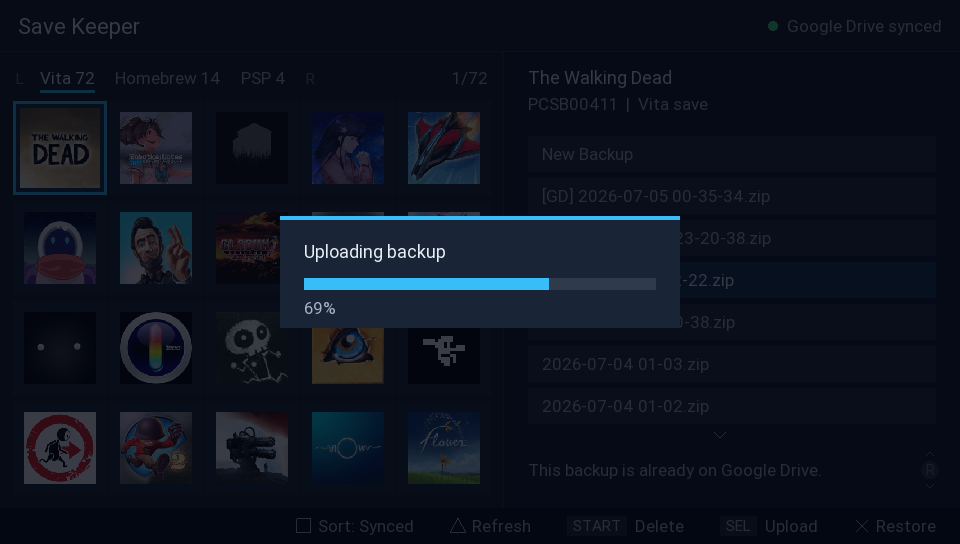
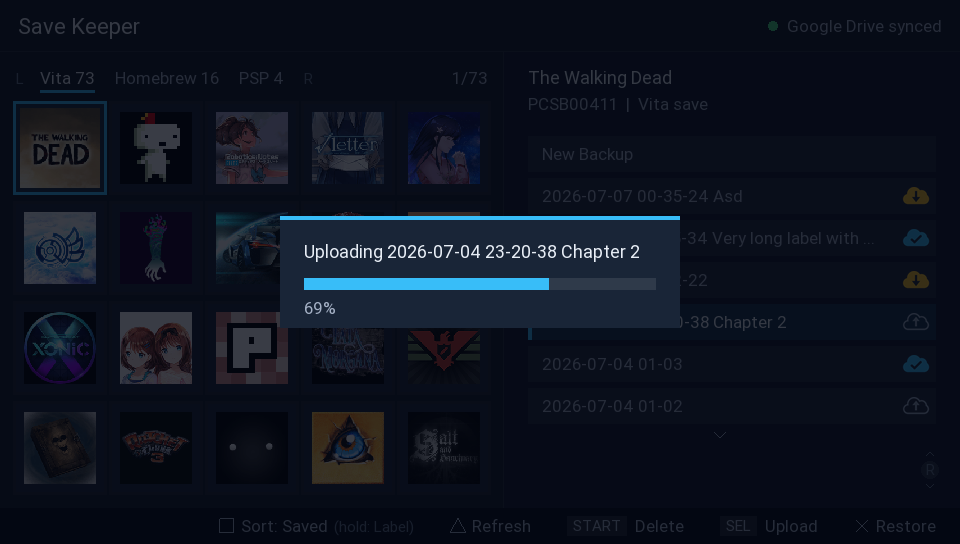
docs: refresh upload-progress screenshot, add batch backup & upload screenshot

diff --git a/README.md b/README.md
@@ -26,9 +26,9 @@ Made for people with more than one Vita (or a PS TV) who want their saves to fol
 - before a restore overwrites anything, the current save is snapshotted automatically
   (shown as `[AUTO]`), unless an identical backup already exists
 
-| Google sign-in | Upload with progress |
-| --- | --- |
-| ![Sign in](docs/screenshots/google-signin.png) | ![Upload](docs/screenshots/upload-progress.png) |
+| Google sign-in | Upload with progress | Back up & upload a whole tab |
+| --- | --- | --- |
+| ![Sign in](docs/screenshots/google-signin.png) | ![Upload](docs/screenshots/upload-progress.png) | ![Batch](docs/screenshots/batch-upload.png) |
 
 ## What you need
 